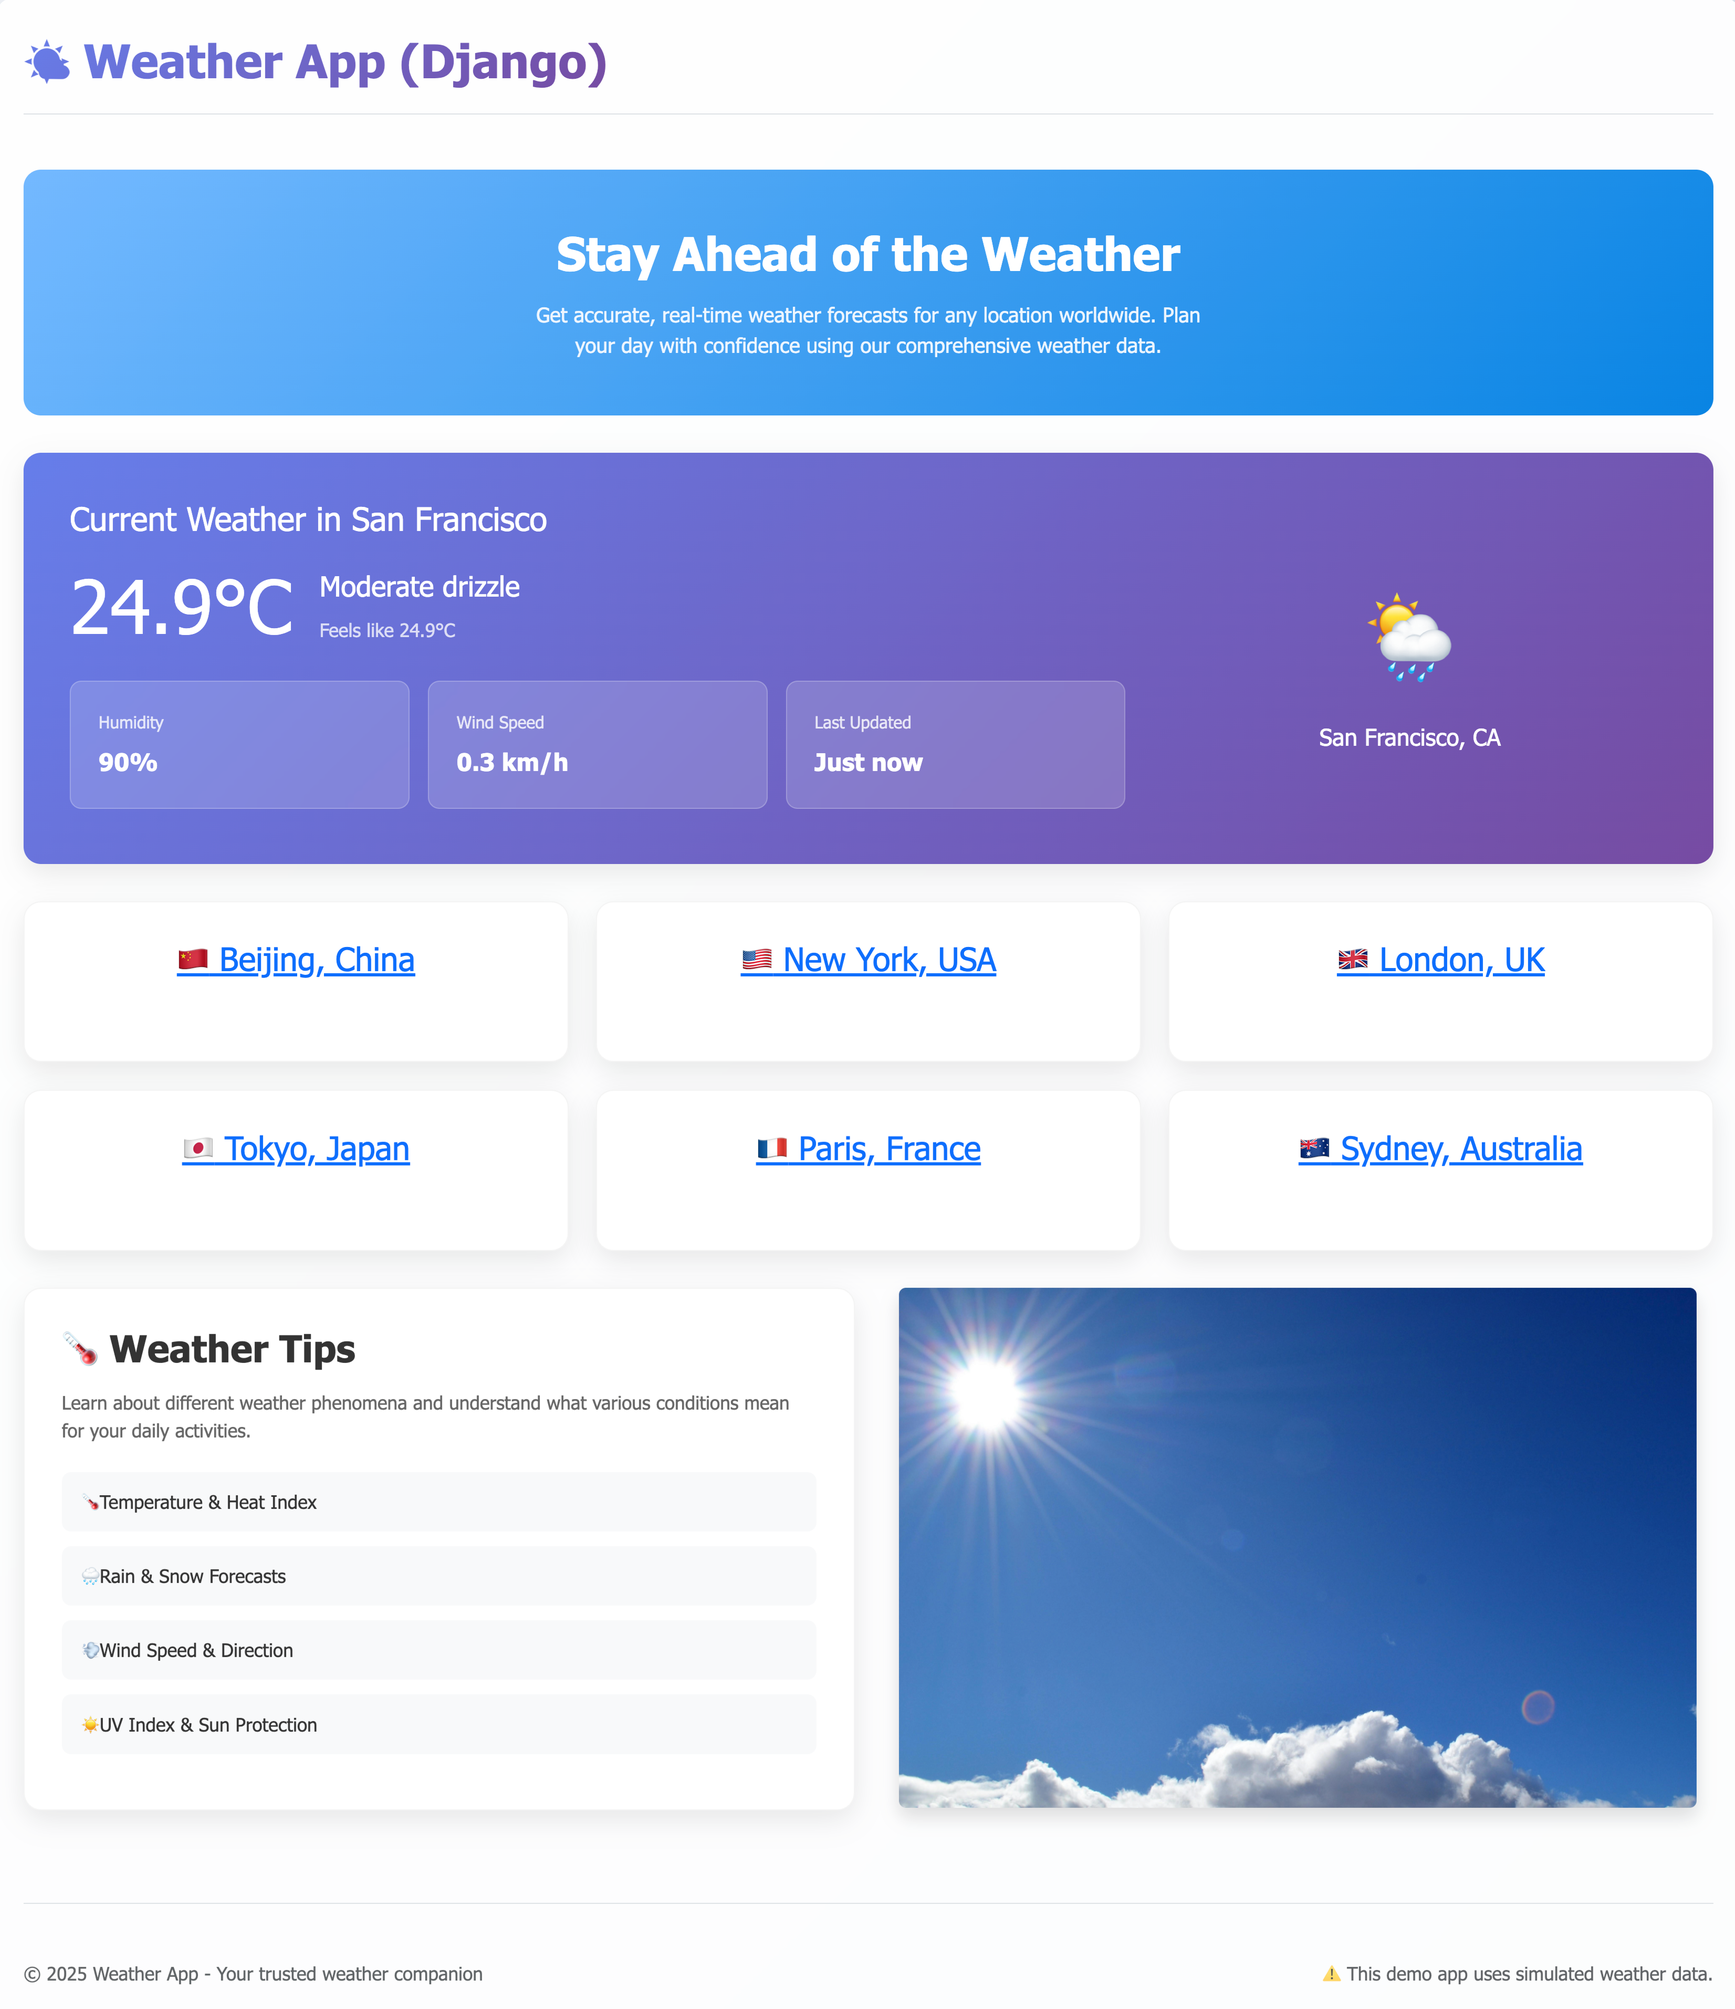
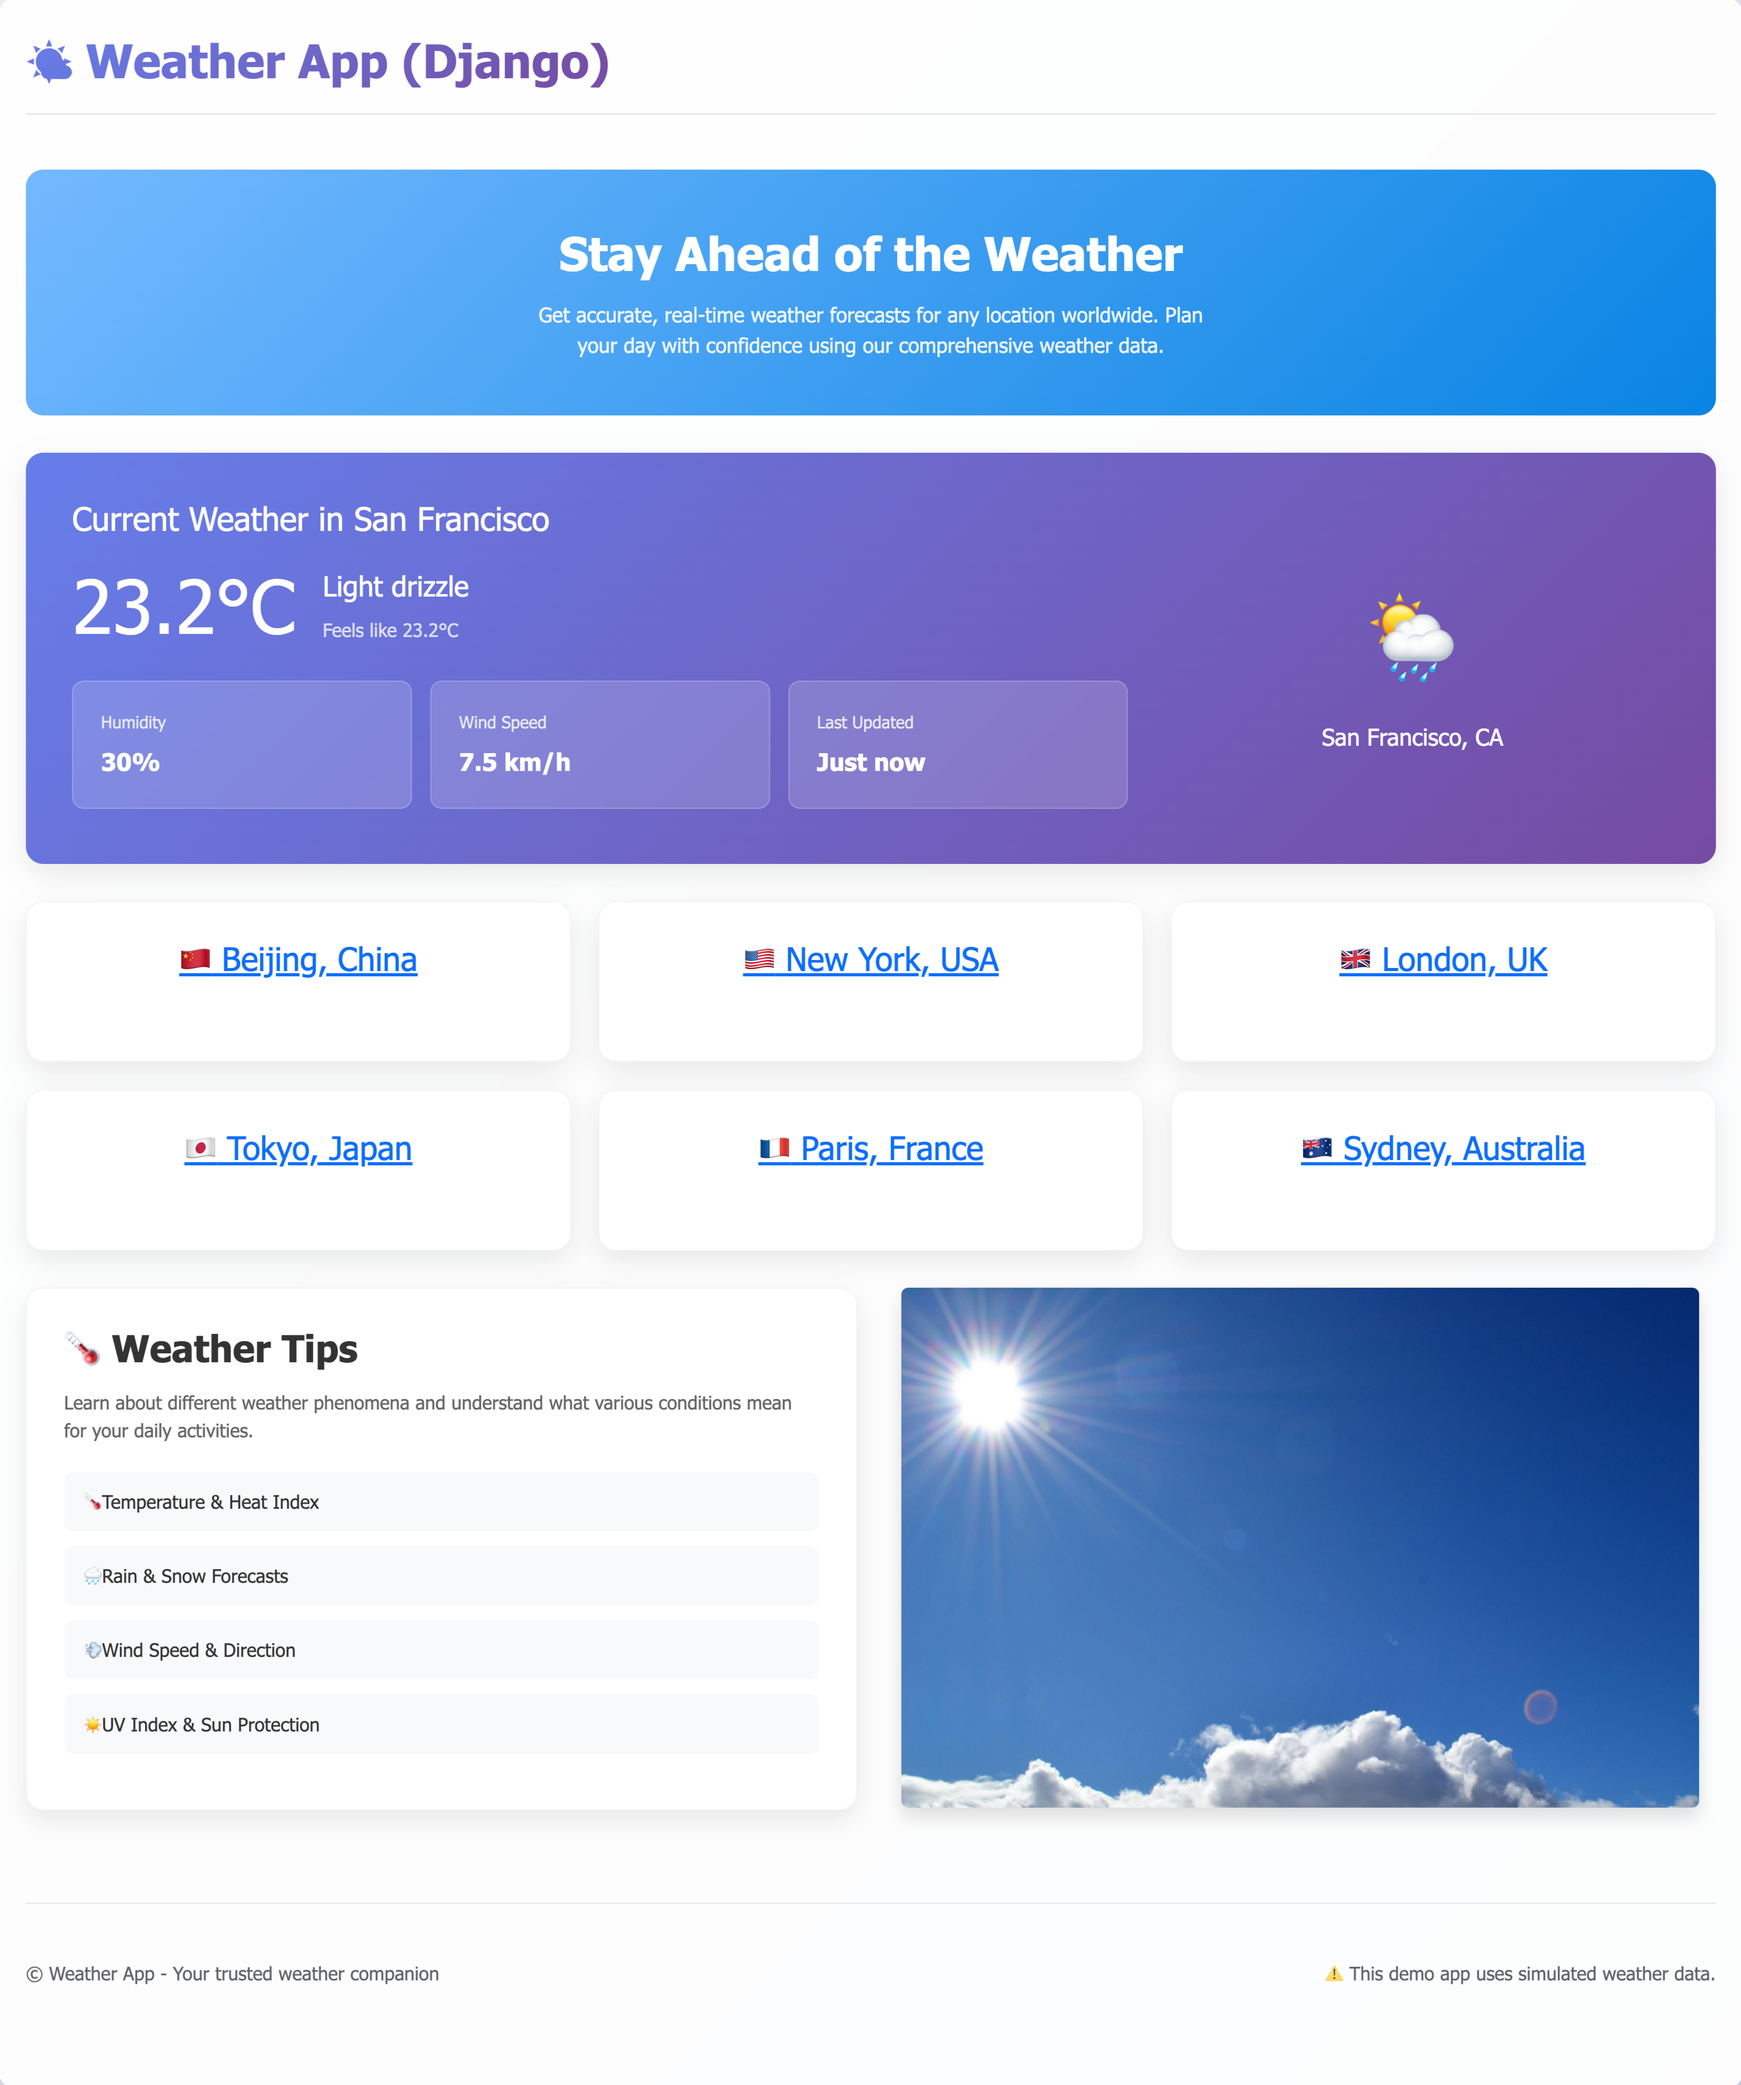
Remove year label

diff --git a/static/js/main.js b/static/js/main.js
@@ -1,3 +1,5 @@
 
 // Set current year dynamically in footer
-document.getElementById('current-year').textContent = new Date().getFullYear();
+// document.getElementById('current-year').textContent = new Date().getFullYear();
+
+document.getElementById('current-year').textContent = "";
